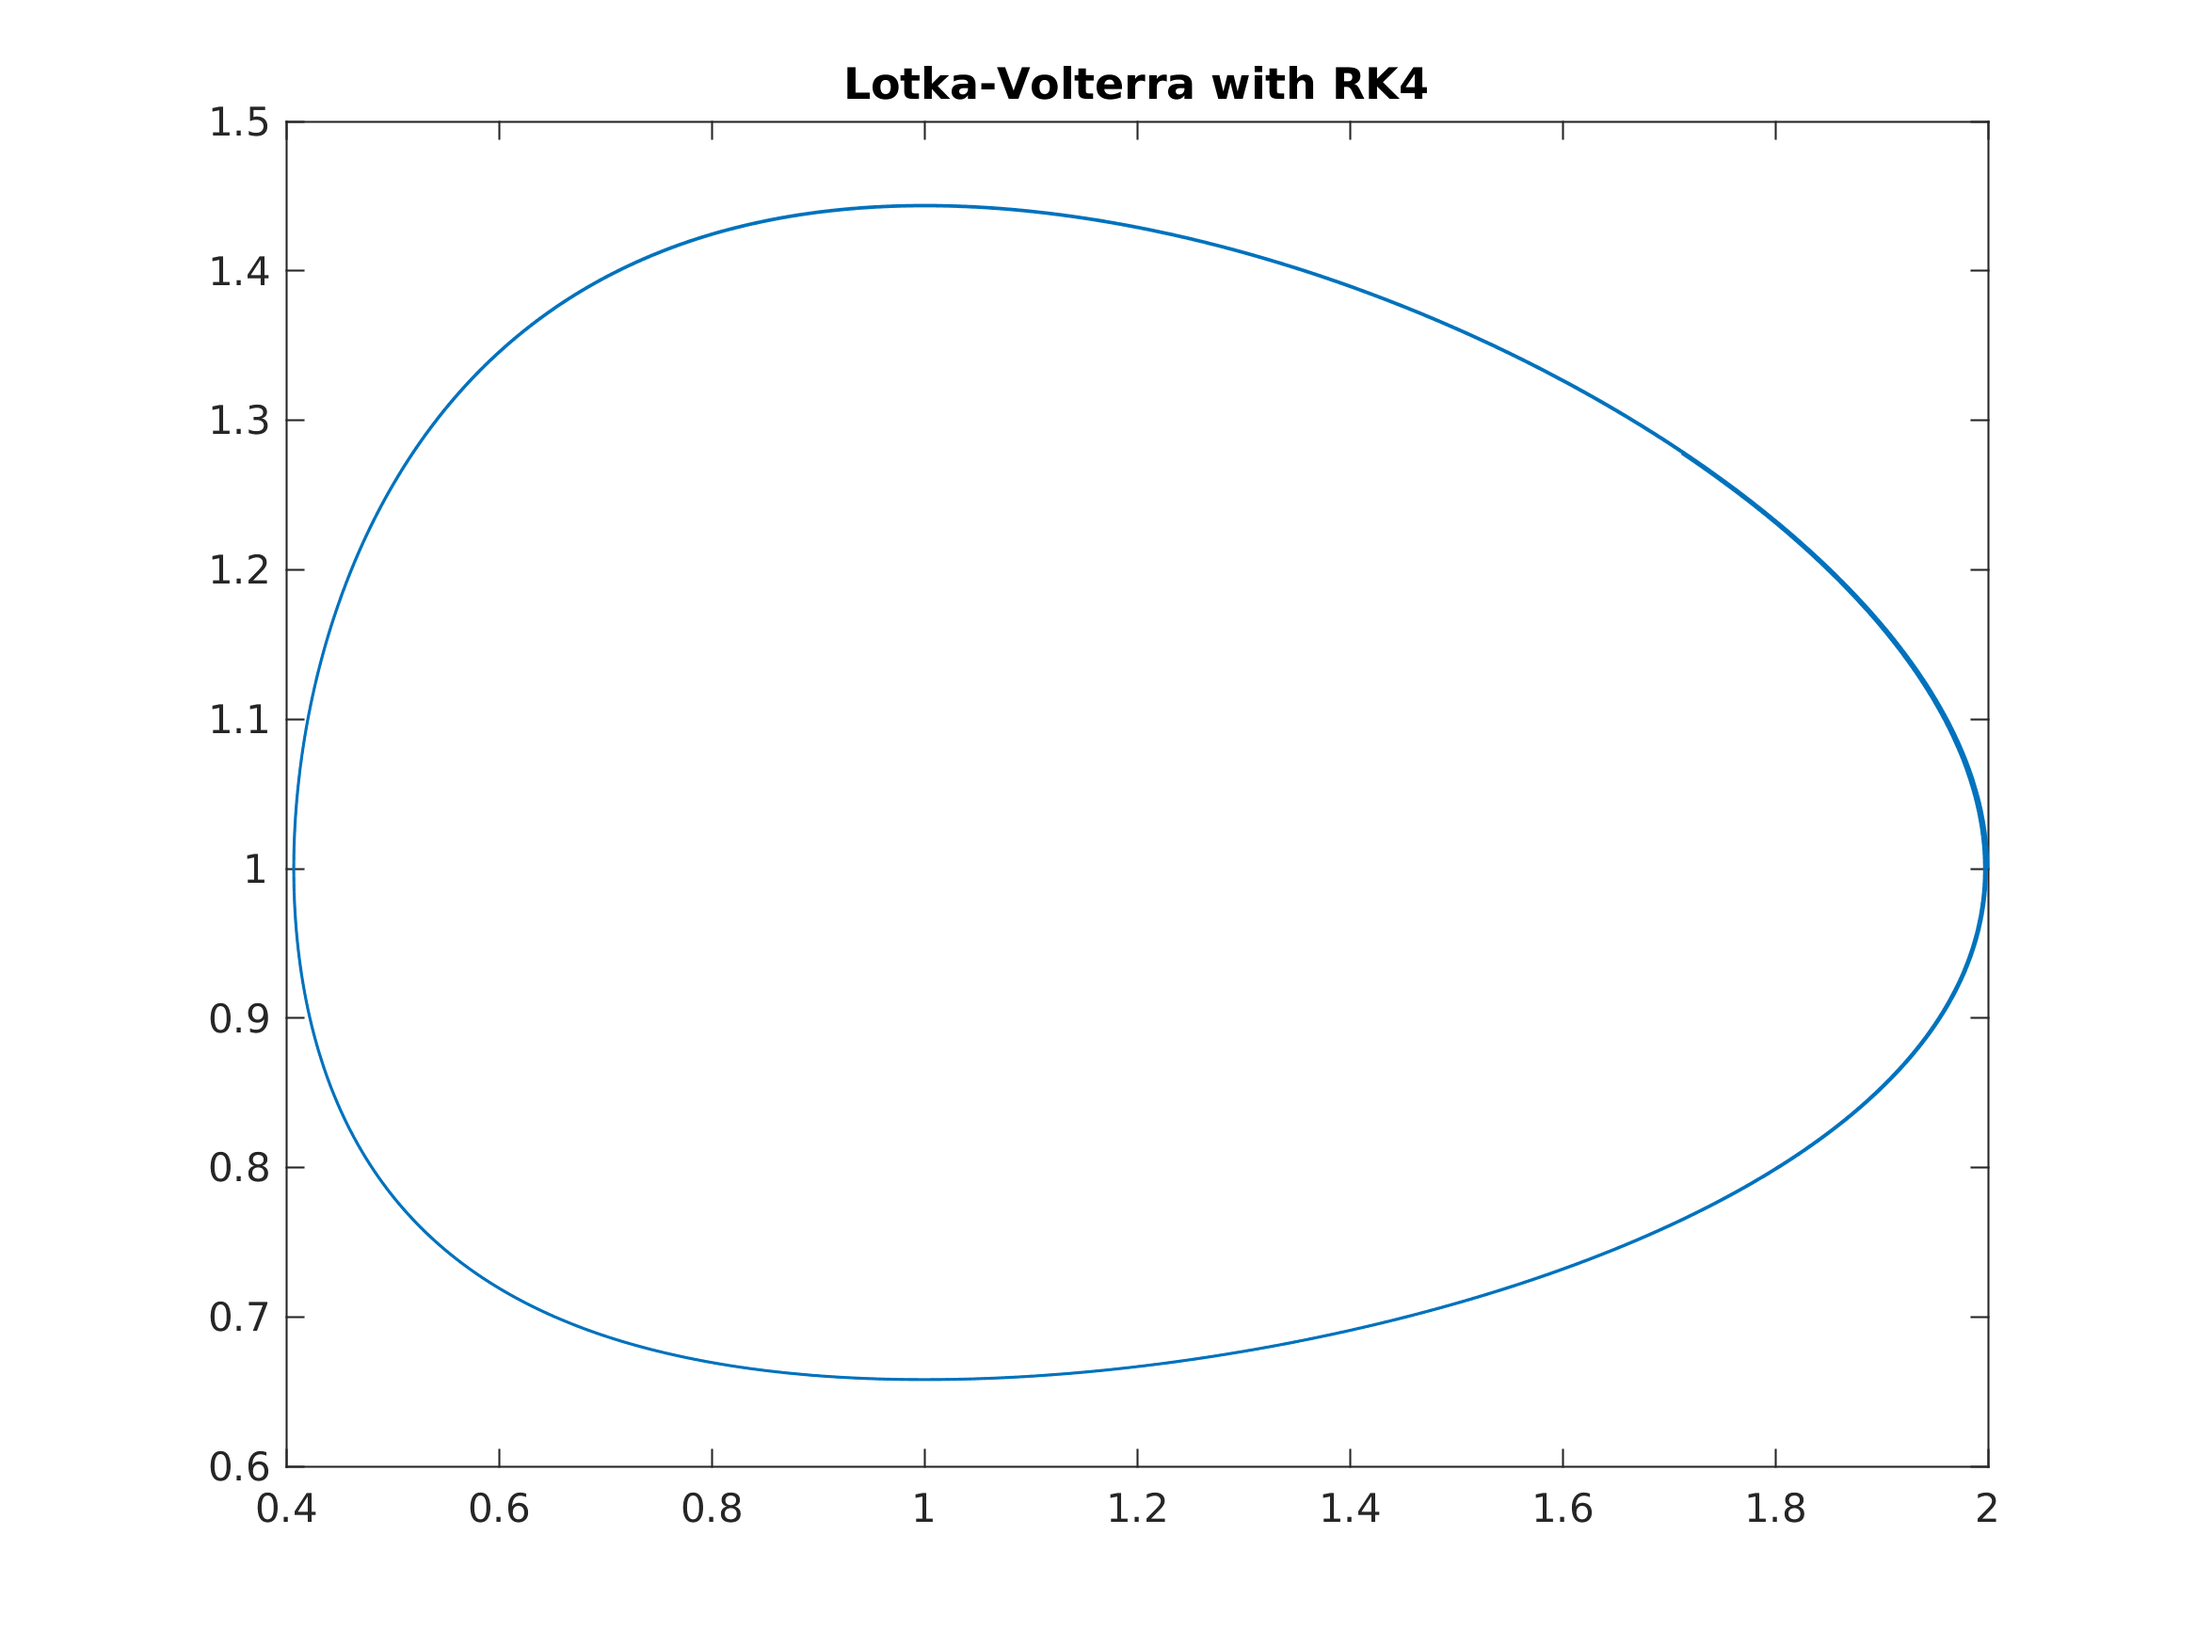
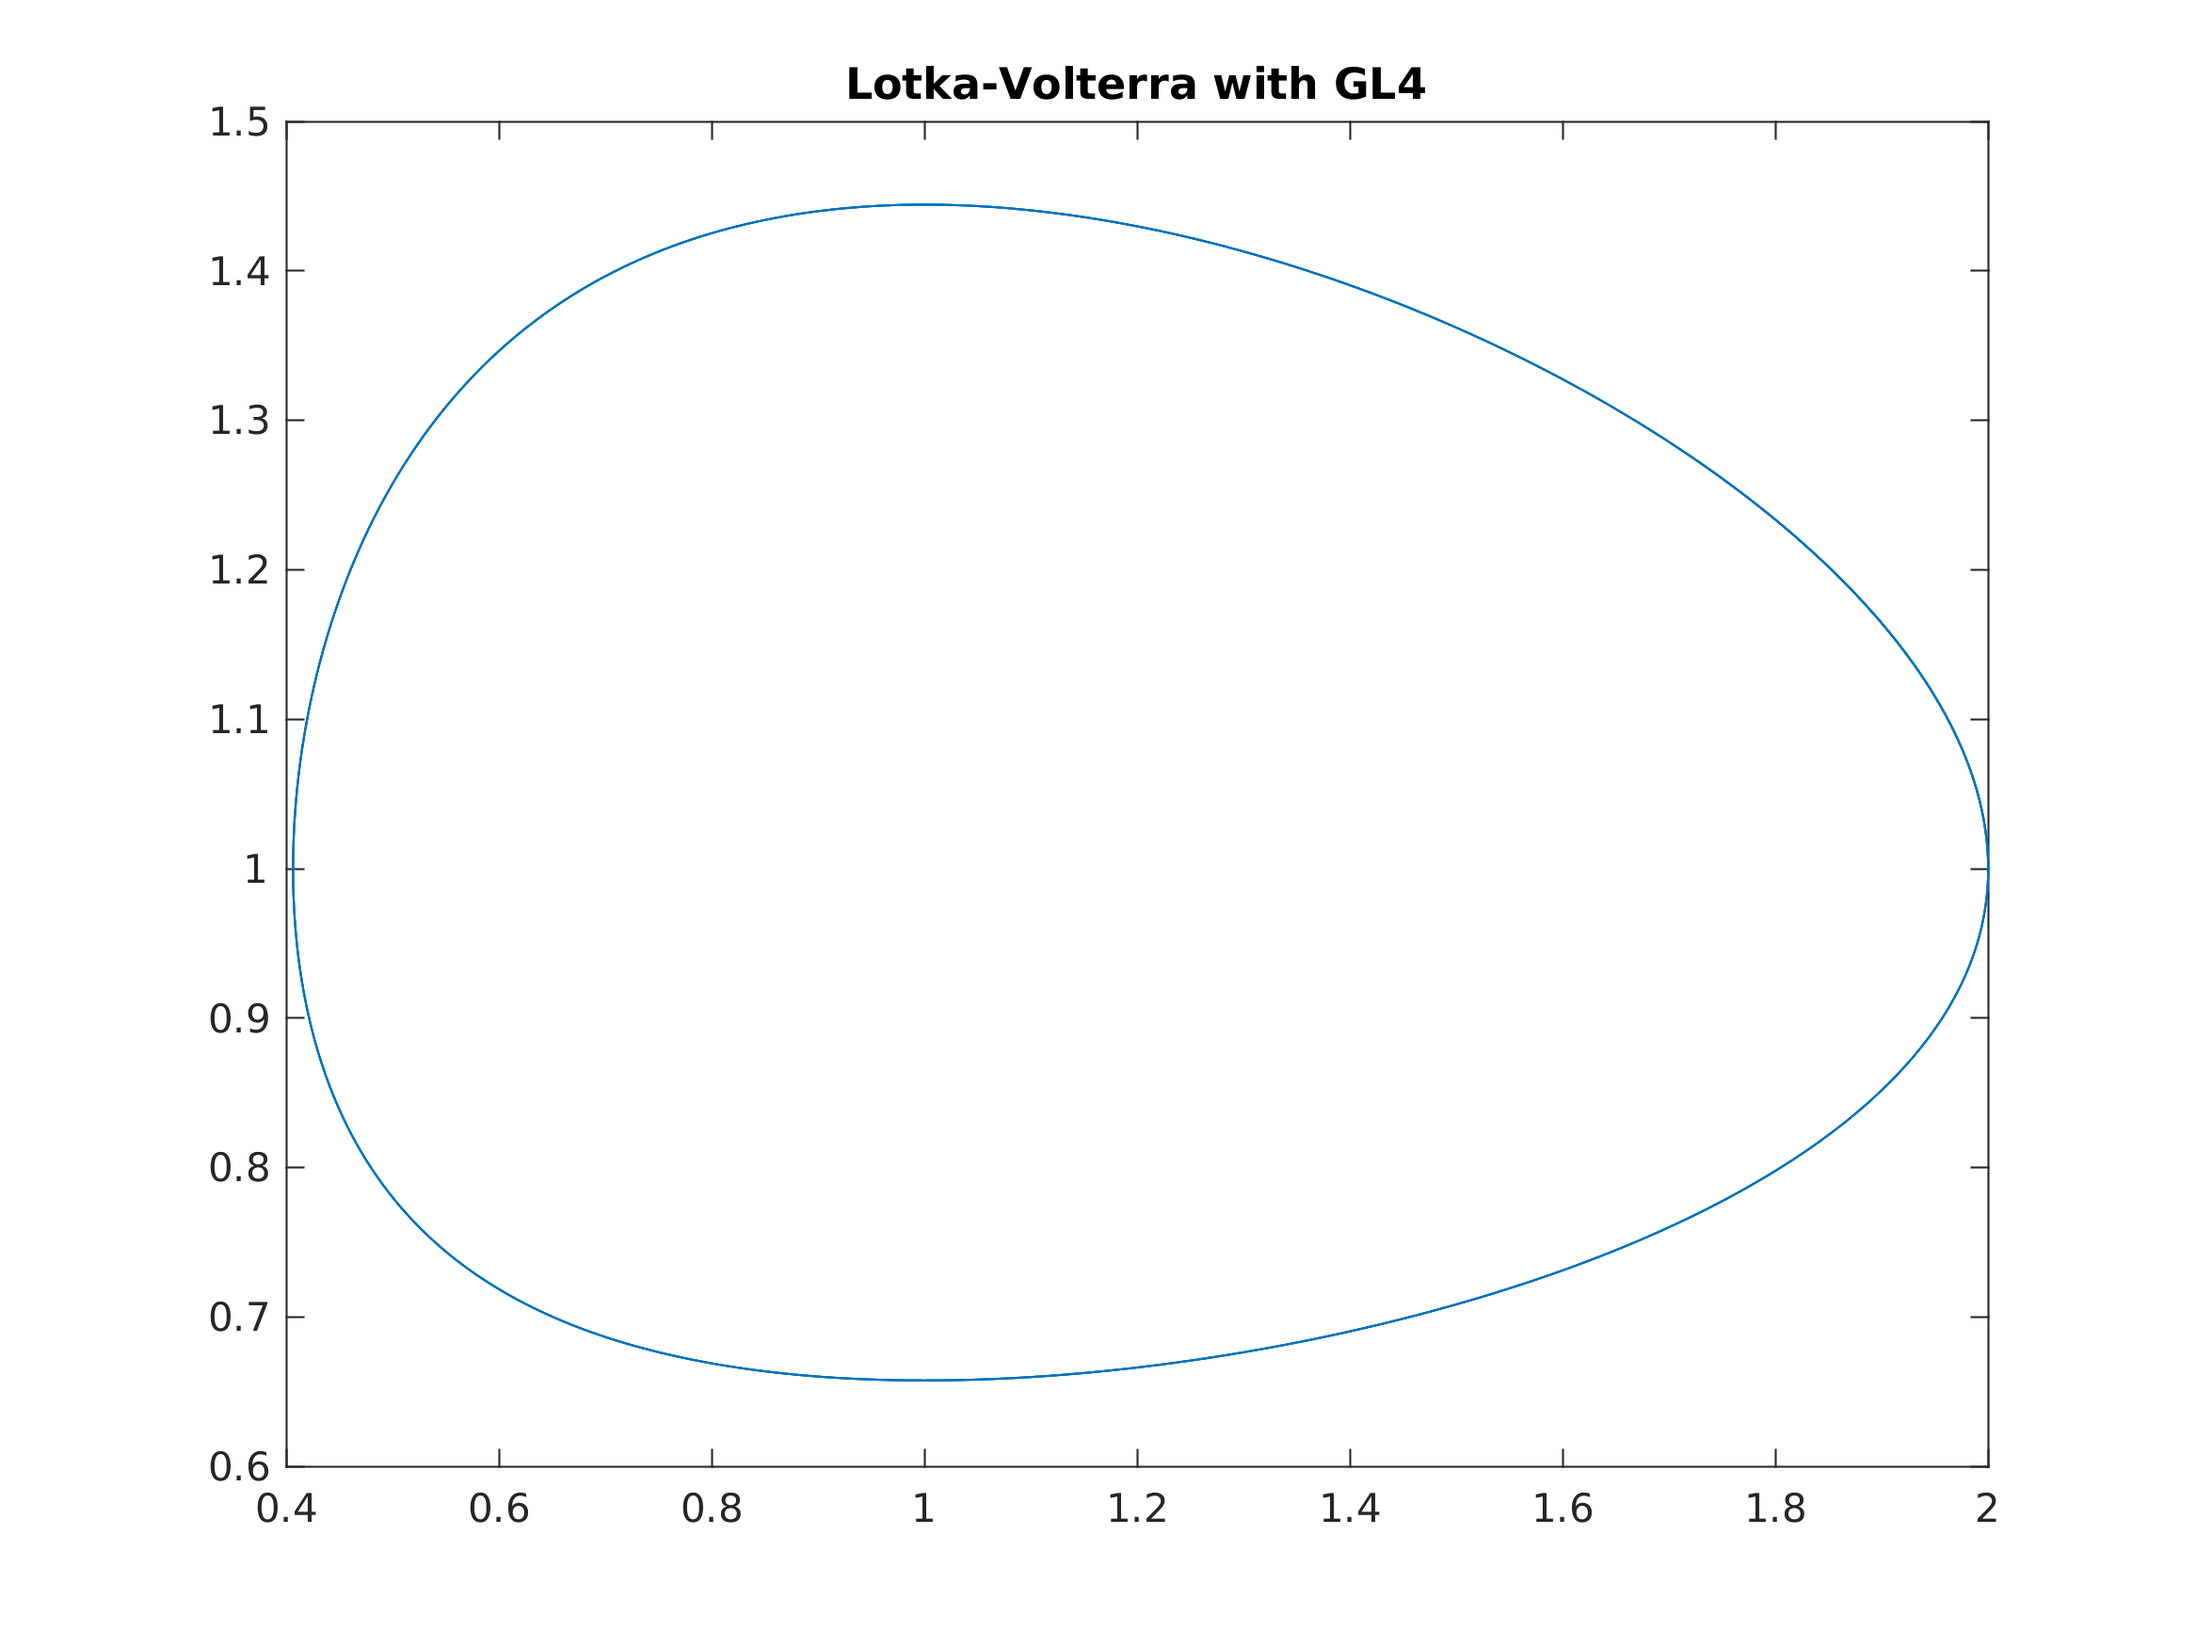
GL4 Finish! - Lotka-Volterra Test complete

Changed region(s): [[0.4012, 0.0309, 0.6481, 0.0617], [0.8641, 0.6171, 0.895, 0.648], [0.8333, 0.648, 0.8641, 0.6789]]

diff --git a/src/numerical/gauss_legendre.rs b/src/numerical/gauss_legendre.rs
@@ -32,7 +32,7 @@ pub fn gl4<F>(f: F, t_init: f64, y_init: Vec<f64>, h: f64, rtol: f64, num: usize
     records.subs_row(0, cat(t, y_curr.clone()));
 
     for i in 0 .. num {
-        let (k1, k2) = k_newton(f, t, y_init.clone(), h, rtol);
+        let (k1, k2) = k_newton(f, t, y_curr.clone(), h, rtol);
         y_curr = y_curr.add(&k1.fmap(|x| 0.5 * x * h).add(&k2.fmap(|x| 0.5 * x * h)));
         t += h;
         records.subs_row(i+1, cat(t, y_curr.clone()))
@@ -97,7 +97,7 @@ pub fn k_newton<F>(f: F, t: f64, y: Vec<f64>, h: f64, rtol: f64) -> (Vec<f64>, V
     let mut num_iter: usize = 0;
 
     // 3. Iteration
-    while err >= rtol && num_iter <= 20 {
+    while err >= rtol && num_iter <= 10 {
         let k_prev = k_curr.clone();
         let DGG = DG_inv.clone() % G.clone();
         k_curr = k_curr.sub(&DGG.col(0));
